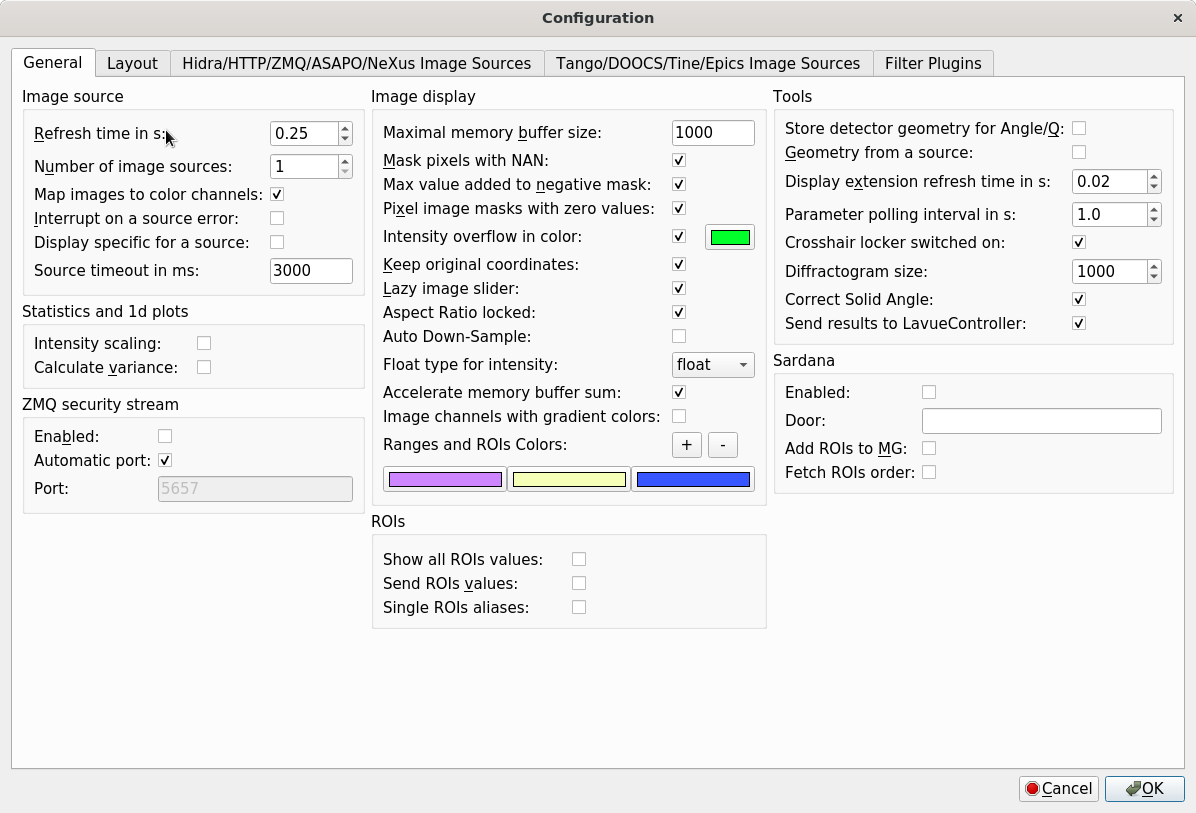
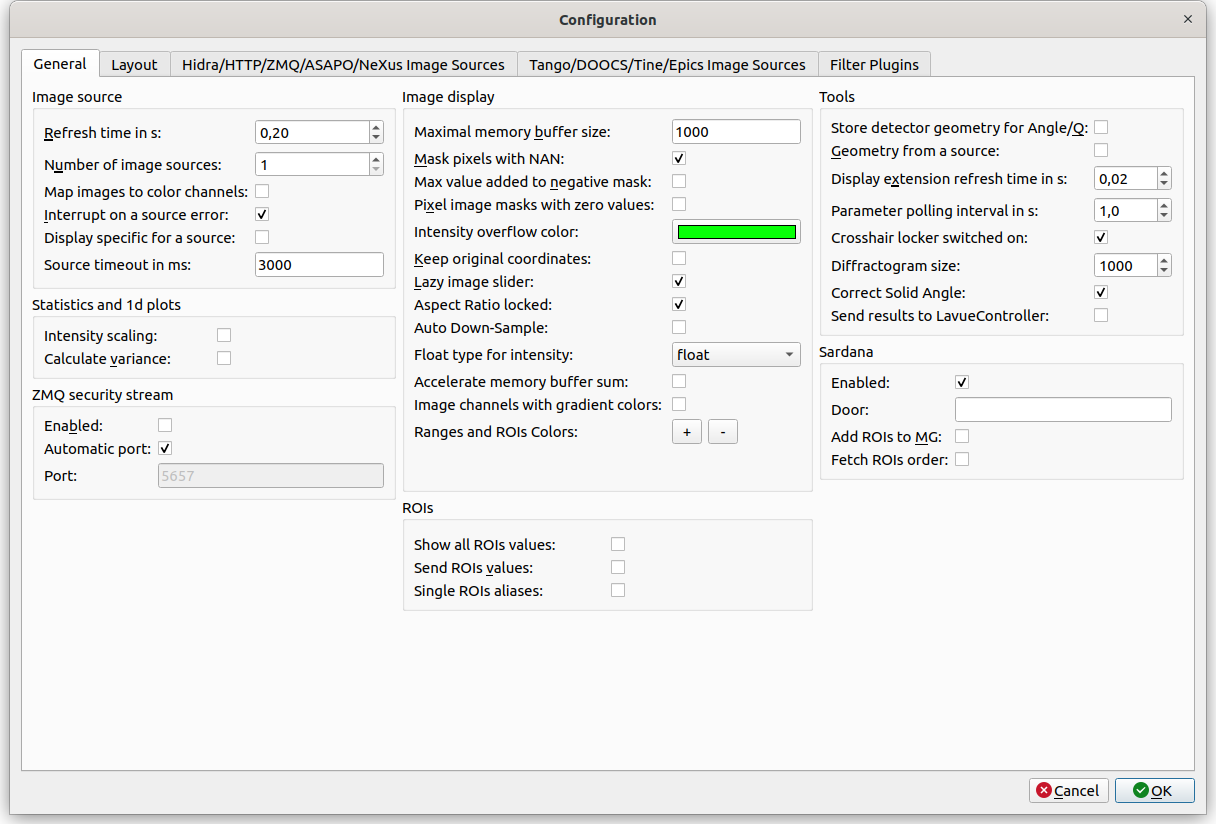
fix for pg 1.12.0

Changed region(s): [[0.0, 0.0, 1.0, 1.0], [0.4331, 0.0, 0.5569, 0.0308]]

diff --git a/lavuelib/memoExportDialog.py b/lavuelib/memoExportDialog.py
@@ -102,7 +102,10 @@ class MemoExportDialog(exportDialog.ExportDialog):
             self.currentExporter = None
             self.ui.paramTree.clear()
             return
-        expClass = self.exporterClasses[str(item.text())]
+        if hasattr(item, "expClass"):
+            expClass = item.expClass
+        else:
+            expClass = self.exporterClasses[str(item.text())]
         exp = expClass(item=self.ui.itemTree.currentItem().gitem)
 
         if prev:
